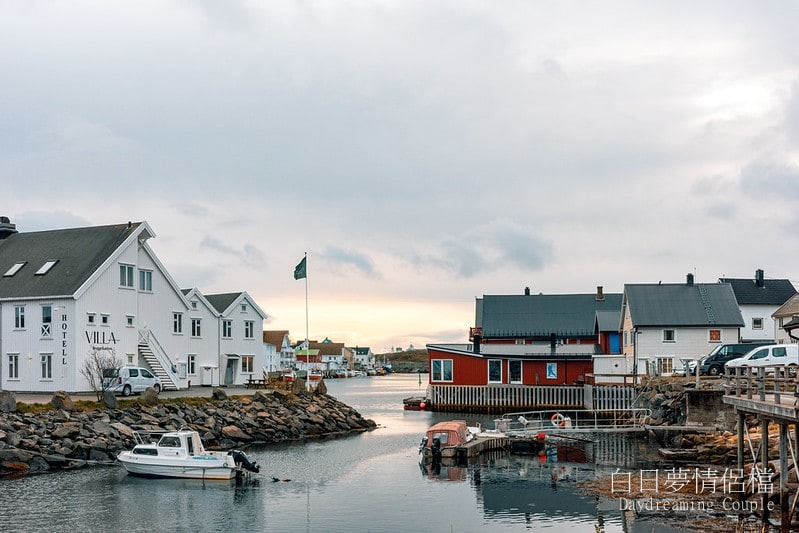
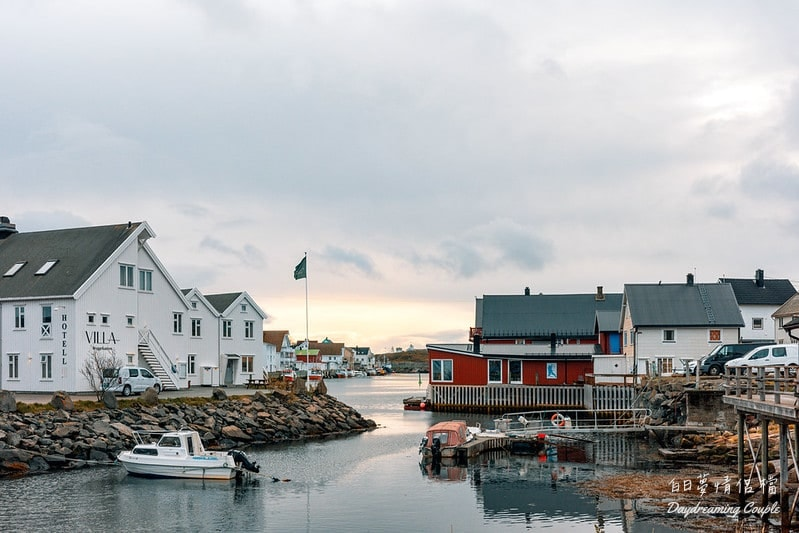
修正亨寧斯維爾標題並重做浮水印（改用向量路徑，修正字體 fallback 與比例問題）

Changed region(s): [[0.7509, 0.8705, 0.9912, 0.9906]]

diff --git a/app/data/site.ts b/app/data/site.ts
@@ -542,7 +542,7 @@ export const articles: Article[] = [
   {
     id: 'henningsvaer',
     category: 'global',
-    title: '角落亨寧斯維爾（Henningsvær）漫遊指南：羅浮敦群島的明信片',
+    title: '亨寧斯維爾（Henningsvær）漫遊指南：羅浮敦群島的明信片',
     date: '2026-08-25',
     location: '羅浮敦群島・亨寧斯維爾',
     seed: 'henningsvaer',
